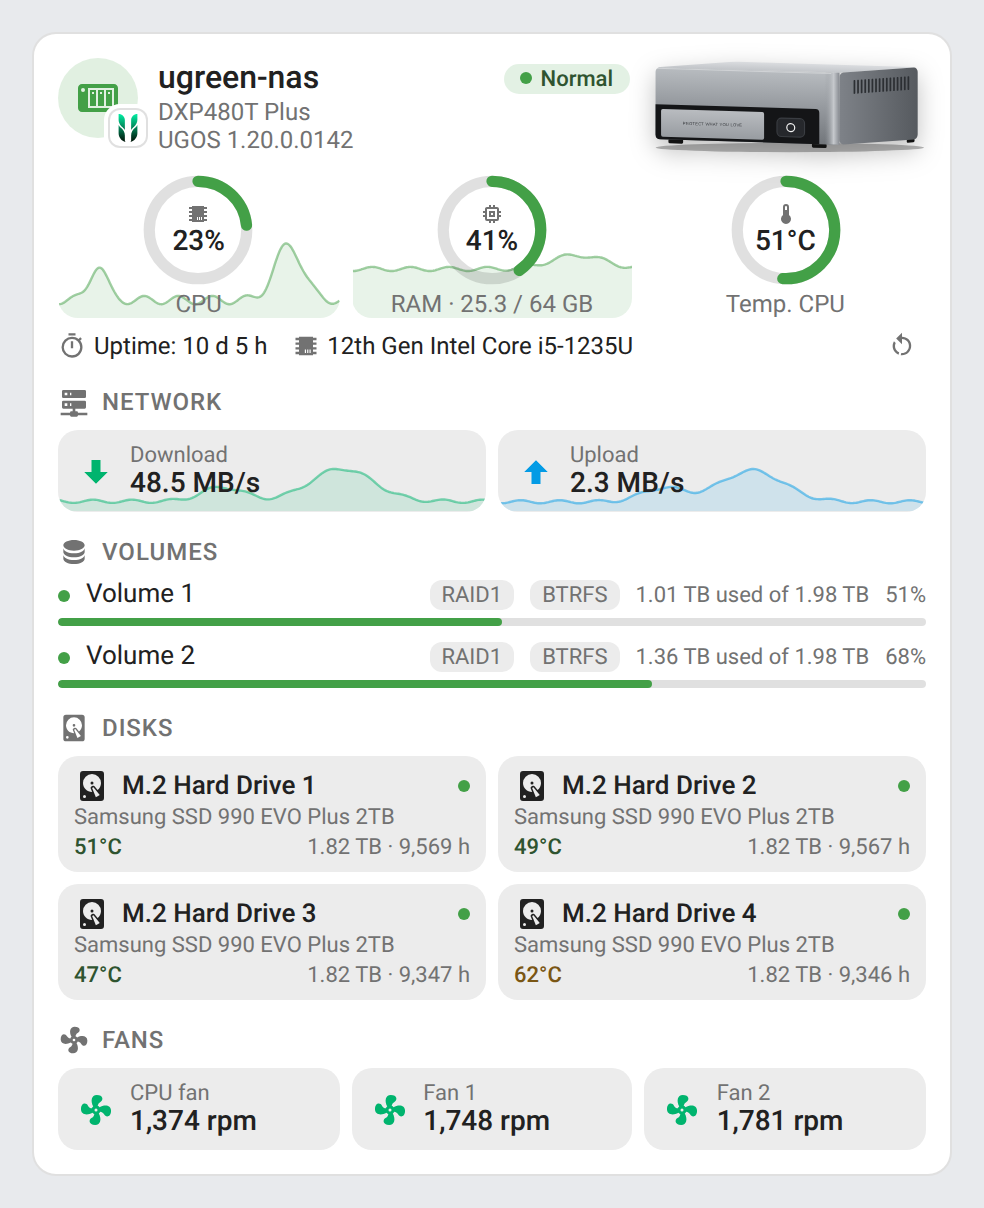
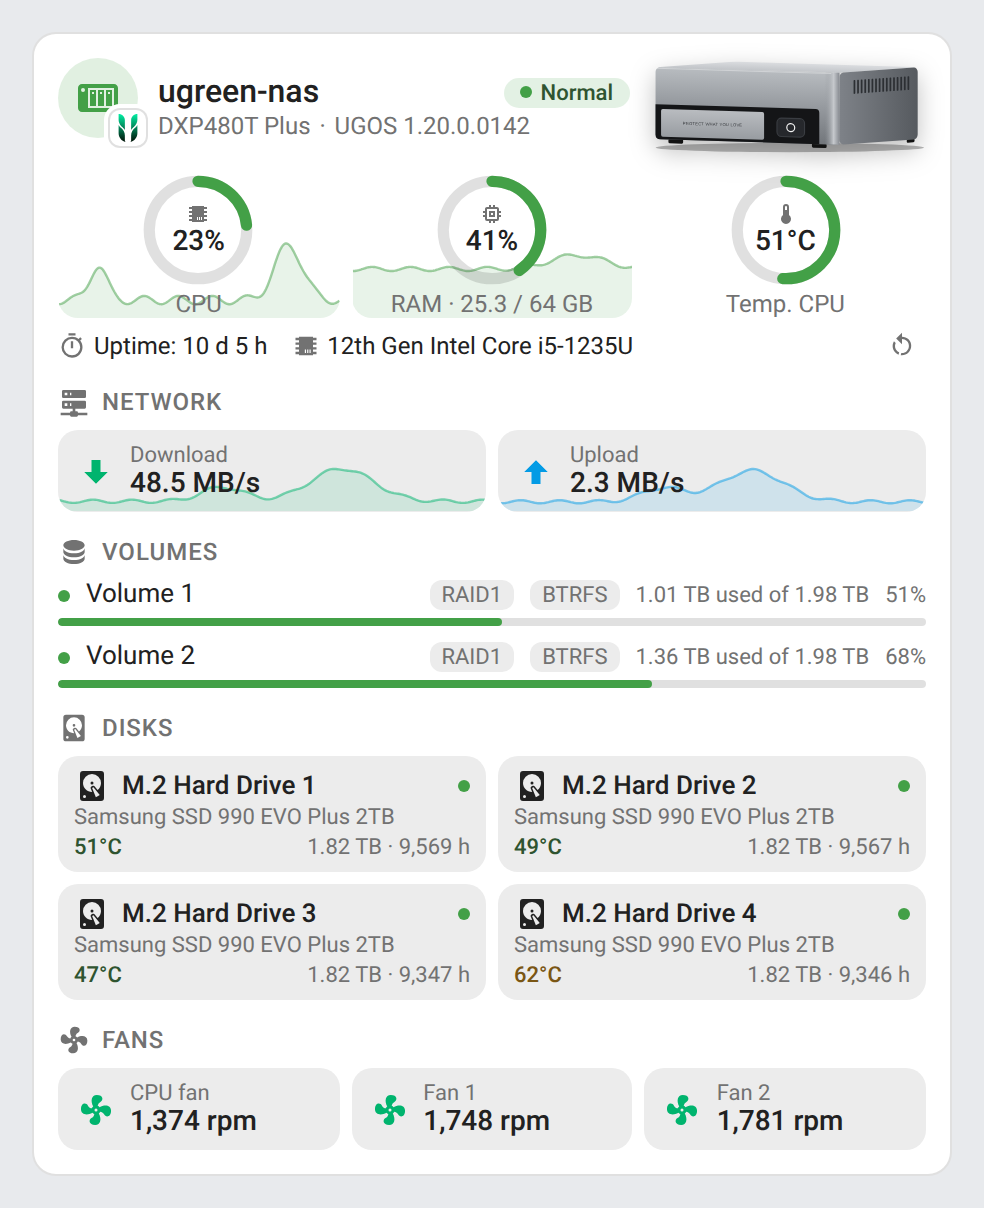
fix: header cut on phone-wide cards (1.21.1) (#71)
Subtitle spans the status pill column; NAS picture capped at 28 % on cards up to 420 px.

Claude-Session: https://claude.ai/code/session_01F4sAmz9SYNMBup1iWyQ3CQ

Changed region(s): [[0.1524, 0.0306, 0.6402, 0.1225]]

diff --git a/src/nas-card.js b/src/nas-card.js
@@ -2247,11 +2247,13 @@ const BASE_STYLE = `
   .bar > div { height: 100%; border-radius: 3px; background: var(--c, var(--nas-accent)); transition: width .6s ease; }
   @media (prefers-reduced-motion: reduce) { .bar > div { transition: none; } }
   .header { display: flex; align-items: center; gap: 10px; padding: 12px 12px 8px; }
-  /* The status pill sits right of the title, centred on the title line; the subtitle keeps the title's width.
+  /* The status pill sits right of the title, centred on the title line; the subtitle runs under it too, so the
+     model and the OS version keep the header's whole width.
      The pill keeps its whole label as long as the title keeps a few characters (the first column's minimum):
      only then does it truncate its text, and on a very narrow card it shows its dot alone. */
   .titles { flex: 1 1 0; min-width: 0; display: grid; grid-template-columns: minmax(48px, 1fr) auto; }
-  .titles > .name, .titles > .sub { grid-column: 1; }
+  .titles > .name { grid-column: 1; }
+  .titles > .sub { grid-column: 1 / -1; }
   .titles > .chip { grid-area: 1 / 2; align-self: center; margin-left: 10px; white-space: nowrap; min-width: 0; max-width: 100%;
                     overflow: hidden; box-sizing: border-box; }
   @container (max-width: 200px) { .chip .txt { display: none; } }
@@ -2688,6 +2690,9 @@ const ring = (pct, cls) => {
 const FULL_STYLE = `
   .nas { height: 48px; width: auto; flex: none; max-width: 40%; object-fit: contain; filter: drop-shadow(0 4px 6px rgba(0,0,0,.25)); }
   .nas-link { max-width: 40%; }
+  /* Phone-wide card (a zoomed mini card, a full card on a phone): a smaller picture leaves the title and the
+     status pill their room. */
+  @container (max-width: 420px) { .nas, .nas-link { max-width: 28%; } }
   .content { padding: 0 12px 12px; display: flex; flex-direction: column; gap: 12px; }
   .section-title { display: flex; align-items: center; gap: 6px; font-size: 12px; font-weight: 500; text-transform: uppercase;
                    letter-spacing: .04em; color: var(--secondary-text-color); margin-bottom: 6px; }

diff --git a/CHANGELOG.md b/CHANGELOG.md
@@ -1,5 +1,10 @@
 # Changelog
 
+## 1.21.1 - 2026-11-09
+
+### Fixes
+- Header on a phone-wide card (zoomed mini card, full card on a phone): the status pill, the model and the OS version were cut (« Nor… », « DXP48… », « UGOS … »). The model and the OS version now run under the status pill too, and the NAS picture takes at most 28 % of the width (instead of 40 %) on cards up to 420 px.
+
 ## 1.21.0 - 2026-11-09
 
 ### Features
